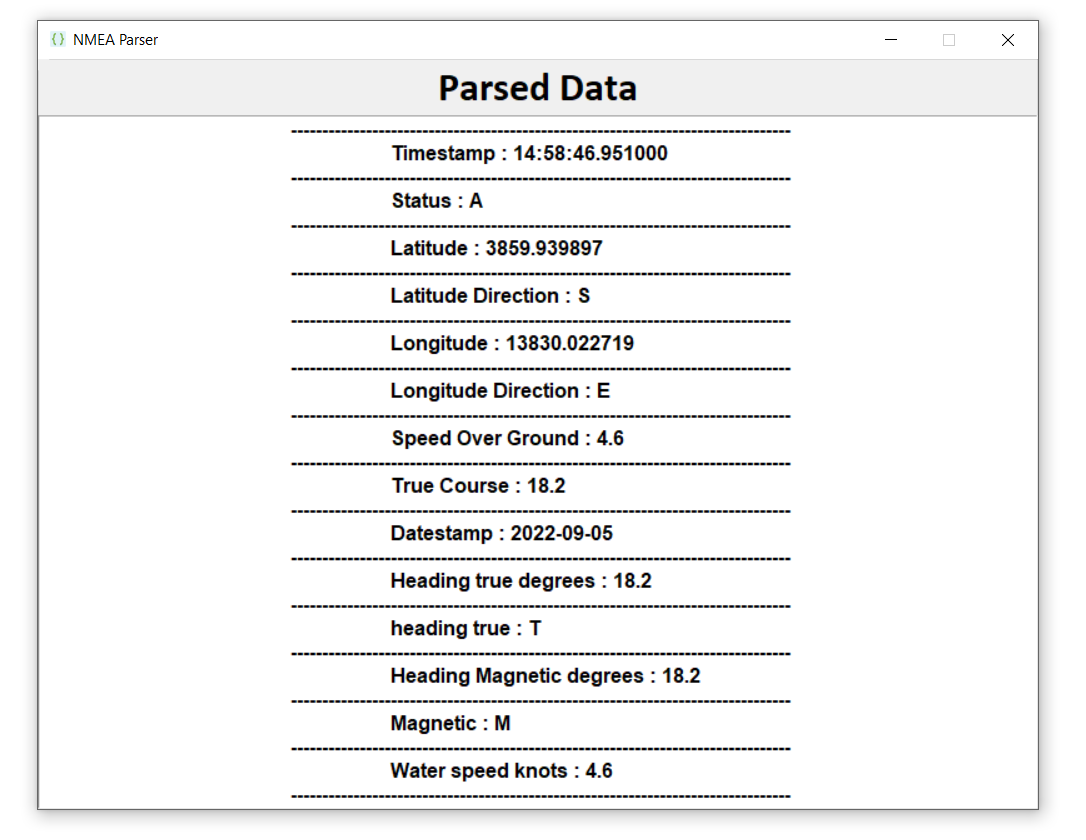
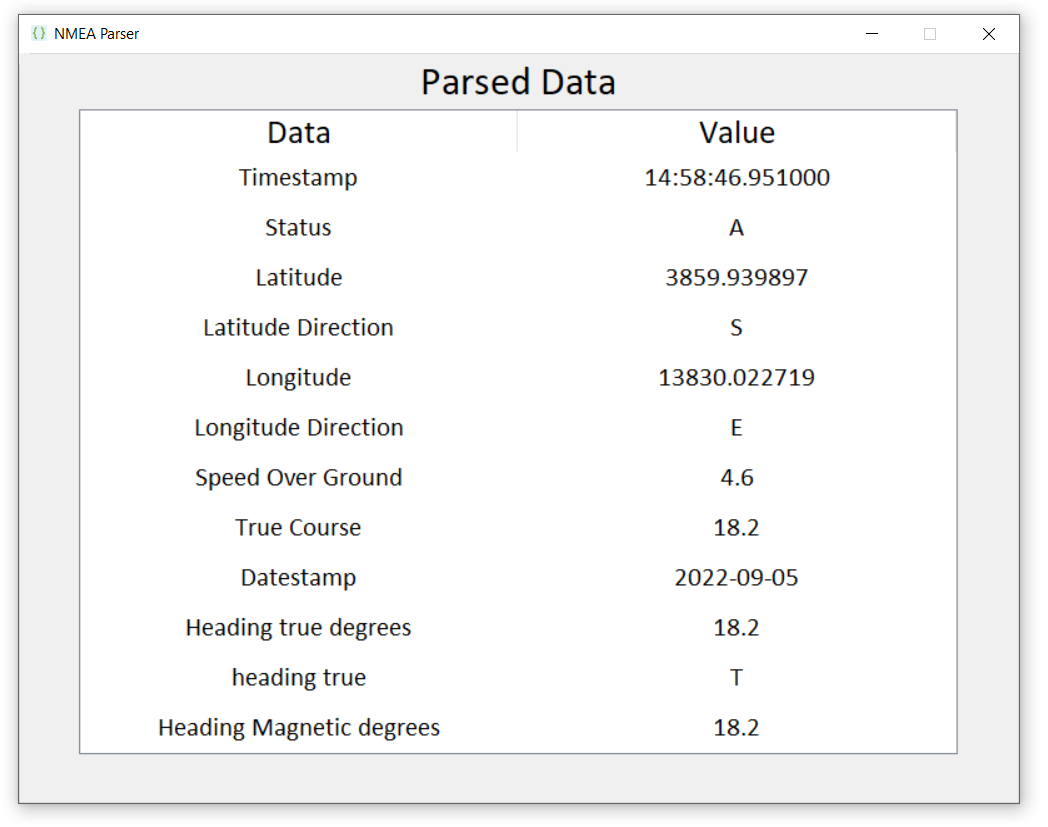
Update the format of displaying data Update the format to TreeView (Table) Update README images and version tag (v1.1.0-alpha)

Changed region(s): [[0.0, 0.0, 1.0, 0.9976]]

diff --git a/NMEA-Project/main.py b/NMEA-Project/main.py
@@ -1,6 +1,5 @@
 import parsers as parser
-from tkinter import messagebox
-from tkinter import filedialog
+from tkinter import messagebox, ttk, filedialog
 from tkinter import *
 
 def GUI():
@@ -17,20 +16,15 @@ def GUI():
         return
 
     app.geometry("800x600")
-    frame = Frame(app)
-    frame.pack()
 
-    label = Label(frame, text="Parsed Data", font=("Calibri", 24, "bold"))
+    label = Label(app, text="Parsed Data", font=("Calibri", 24))
     label.pack()
 
-    text = Text(frame, width=300, height=300, font=("Arial", 12))
-    text.pack()
+    table = InitializeTable(app)
 
     for key,item in parser.get_result().items():
-        text.insert(END, " "*50 + f"{'-'*80}\n")
-        text.insert(END, " "*70 + f"{key} : {item}\n")
+        table.insert("", "end", text="", values=(key, item))
 
-    text.config(state=DISABLED)
     app.mainloop()
 
 def ParseFile(sentence_file):
@@ -41,6 +35,24 @@ def ParseFile(sentence_file):
     for sentence in sentence_file.readlines():
         parser.parse(sentence)
     return True
+
+def InitializeTable(app):
+    table = ttk.Treeview(app, height=12)
+    table.pack()
+
+    style = ttk.Style()
+    style.configure("Treeview.Heading", font=("Calibri", 20), rowheight=40)
+    style.configure("Treeview", font=("Calibri", 16), rowheight=40)
+
+    table['columns'] = ("Data", "Value")
+    table.column("#0", width=0, stretch=NO)
+    table.column("Data", anchor=CENTER, width=350)
+    table.column("Value", anchor=CENTER, width=350)
+
+    table.heading("Data", text="Data", anchor=CENTER)
+    table.heading("Value", text="Value", anchor=CENTER)
+
+    return table
 
 if __name__ == "__main__":
     GUI()
